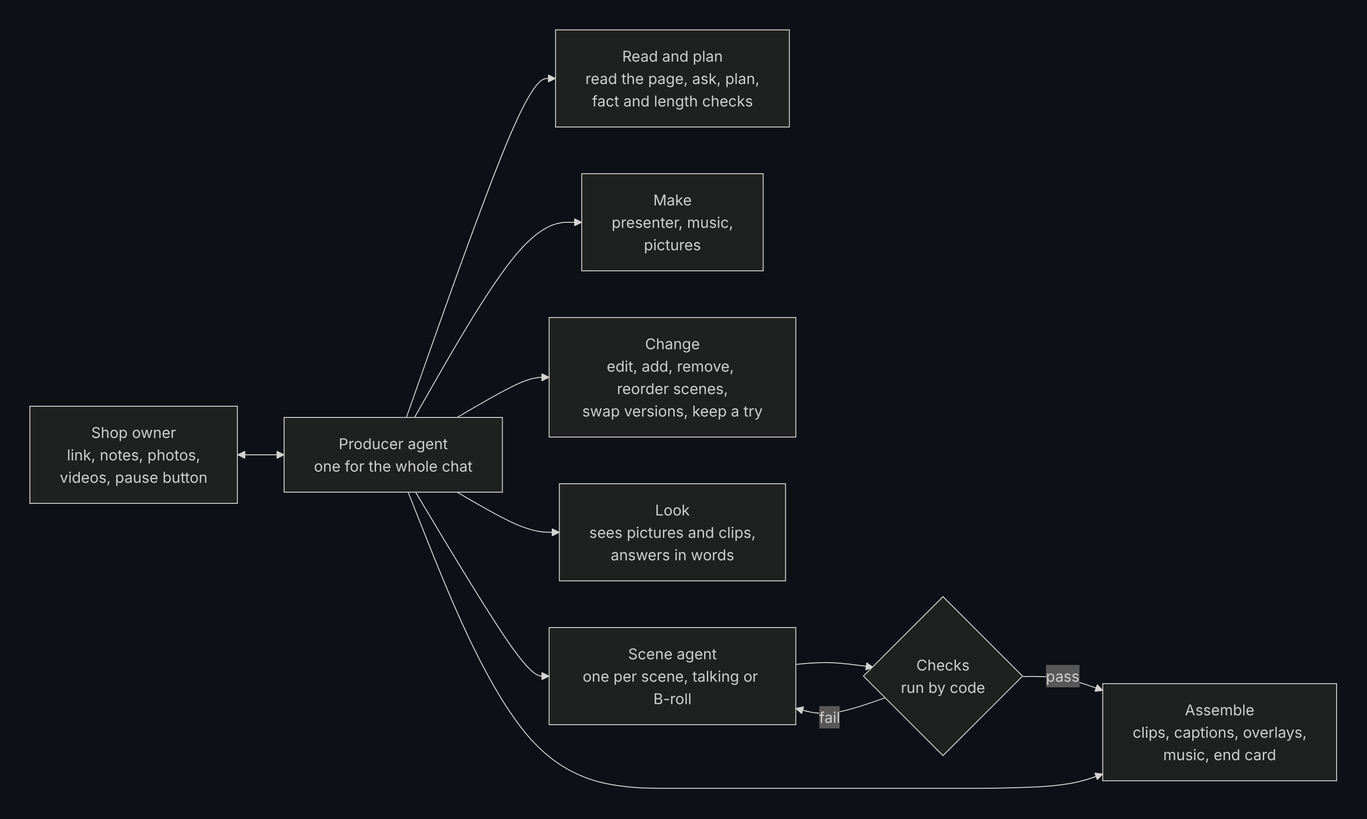
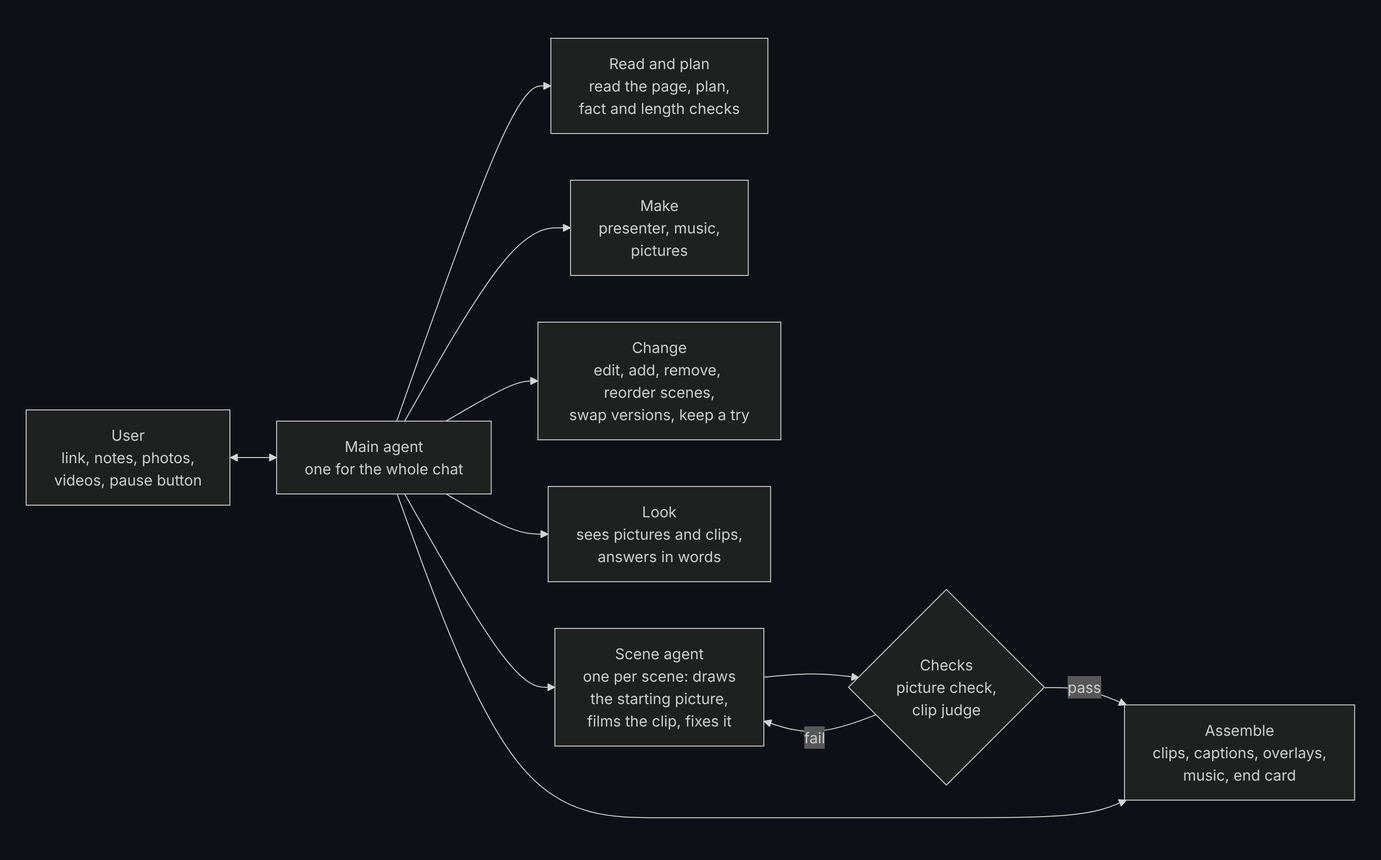
Rewrite the README short, with a why doc per main part (#726)
The README had grown long, and a reader new to the repo couldn't find the
hard parts or the reason behind each part. It now leads with the ads, the
three hard parts and how the architecture got here, and each main part of
the diagram links a short doc on why it is like that (docs/why/). The long
part-by-part list moved to docs/how-it-works.md. The README, the docs and
the diagram say "user" and "main agent" instead of "shop owner" and
"producer", and explain every in-house word.

Claude-Session: https://claude.ai/code/session_01CWcSCTNP1qYPPM5vgUbRac

diff --git a/README.md b/README.md
@@ -1,131 +1,100 @@
 # AdForge
 
-A chat agent that turns a product page into a short video ad. A presenter talks, B-roll shows the product being used, and the shop owner fixes any scene by writing a note.
+A chat agent that turns a product page into a short video ad. You send a product link and it makes the whole ad: a presenter talks about the product, and product shots show it being used. If a scene comes out wrong, you write a note in the chat and the agent fixes it.
 
-Watch it work: https://www.loom.com/share/23d2f242ad414ea4ba889d0310d5a38d
-
-See the ads and my grades: https://julian-win-stack.github.io/adforge-gallery/
+- **The ads, a month ago and now:** _link coming_
+- **Loom walkthrough:** _link coming_
+- **Try it:** the live link and login are in the message that came with this. They're not here because this repo is public.
 
 ![Three frames from a finished ad: the presenter with the can, the pour over ice, the first sip](docs/readme/ad.png)
 
-## How it works
+## Words I use
 
-One agent, the producer, runs the whole chat, from the first product link to the last note. It is a model with tools: it calls one, reads the answer, and decides what to do next. There is no pipeline in code. The rules that matter live in the tools, which refuse with a reason ([ADR 1](docs/adr/0001-agent-loop-with-safety-in-the-tools.md), [ADR 10](docs/adr/0010-one-agent-after-the-first-clip.md)). Each scene is then made by its own scene agent ([ADR 11](docs/adr/0011-one-agent-per-broll-scene.md), [ADR 12](docs/adr/0012-every-scene-made-with-h3.md)).
+- **Video model:** the AI that films each clip. It's Boreal-H3, Creatify's model (H3 for short).
+- **Clip:** one scene of the ad, filmed by the video model. An ad is 3 or 4 clips.
+- **Product shot:** a clip that shows the product being used, with the presenter's voice over it. The code calls it B-roll.
+- **Agent:** an AI model that calls tools in a loop and decides what to do next.
+- **Main agent:** the one agent the user chats with. The code calls it the producer.
+- **Scene agent:** one agent per scene. It draws the clip's starting picture, films the clip and fixes it.
+- **Starting and end pictures:** pictures drawn by a picture model before filming. The video model starts the clip from the starting picture, and ends exactly on the end picture.
+- **Clip judge:** an AI check that watches each clip after it's filmed.
+- **Round:** one batch of ads from real product pages after a set of changes, graded by me.
+
+## How it works
 
 <picture>
   <source media="(prefers-color-scheme: dark)" srcset="docs/readme/how-it-works-dark.png">
-  <img alt="The shop owner talks to the producer agent. The producer reads and plans, makes the presenter, music and pictures, changes scenes, looks at pictures and clips, and starts one scene agent per scene. Each scene's pictures and clips go through checks run by code: a fail goes back to the scene agent, a pass goes to assembly, which joins clips, captions, overlays, music and the end card." src="docs/readme/how-it-works-light.png">
+  <img alt="The user talks to the main agent. The main agent reads the page and plans, makes the presenter, music and pictures, changes scenes, looks at pictures and clips, and starts one scene agent per scene. Each scene agent draws the starting picture, films the clip and fixes it. Its pictures and clips go through checks, a picture check and the clip judge: a fail goes back to the scene agent, a pass goes to assembly, which joins clips, captions, overlays, music and the end card." src="docs/readme/how-it-works-light.png">
 </picture>
 
 <!-- The diagram is a picture so its labels show whole on every screen. Source: docs/readme/how-it-works.mmd; render it with Mermaid in light and dark and replace both PNGs. -->
 
-The producer's tools are in `backend/agents/producer.py` (`PRODUCER`); the scene agent's tools are in `backend/agents/scene_agent/__init__.py` (`TOOLS`). What the parts do:
+Why the main parts are like this:
 
-- **Reading the page.** Keeps only this product's text and photos. Page videos are watched whole on Gemini and cut into one-action moments for the ad's library. A page that can't be read can be pasted in the page panel. ([problem 2](#2-the-ad-stated-another-products-facts-so-i-rebuilt-the-page-reader))
-- **Planning.** The planner uses the main-looking size or pack and its price, the clear photos it has, invented parts and ordinary use when needed, then tells the owner its choices without a question (`backend/jobs/planning.py`). The plan is 3 or 4 scenes by default: the first talking, the middle ones B-roll, at least one B-roll scene per ad. Each talking scene has its own style (selfie, propped, talking while using it) and product state (in its box, out of it, in use, beside its box), so no two in a row look the same (`backend/jobs/plan_rules.py`, [ADR 13](docs/adr/0013-more-broll-whole-clips.md)). One movement per B-roll clip. ([problem 3](#3-several-actions-in-one-clip-break-the-physics-so-one-clip-is-one-movement))
-- **No questions, on purpose.** Decided and built on Nov 15, 2026 ([#662](https://github.com/Julian-Win-Stack/adforge/issues/662)): the agent doesn't ask the owner for photos, videos or permission. It picks the size that looks like the main one and goes with its price, draws a part no photo shows, films the product's ordinary use, tries a different shot by itself when a scene keeps failing, and says in one line what it chose. The owner can change anything afterwards with a note. Only a page that can't be read, or no product photo at all, still stops it. Why: AdForge isn't used by real shop owners yet, and a question stops a test run (one regression ad stopped after $18.98, waiting for a photo nobody would send). And as a user, I don't want to be asked those questions. I want it to figure things out by itself.
-- **Planning checks.** Every line and what each scene shows is checked against the page, the owner and the photos, then against how long the clip can last. A failing line is rewritten up to twice; if it still fails, the producer fixes it with its scene tools (`producer.py:RunPlanningChecks`). Every fact comes from the page or the owner ([ADR 2](docs/adr/0002-facts-come-only-from-the-page-and-the-user.md)).
-- **Scene agents.** The producer starts one agent per scene with an instruction (`start_scene_agent`). The agent picks the photos, draws a starting picture, films it with Boreal-H3 on Creatify, reads the checks and tries again. H3 speaks the checked line in the clip, in the presenter's voice words; no voice file is made. Only the producer talks to the owner.
-- **Checks, run by code.** Every starting and end picture is checked before filming (`scene_agent/picture_check.py`). The clip judge checks the filmed motion for things passing through bodies or solid objects; a yes fails the clip and tells its remake the fault and seconds (`jobs/clip_judge.py:judge_clip`). Every clip, talking and B-roll, gets the clip judge inside the agent's `film` tool (`scene_agent/film.py:Film.run`). The agent can't skip the checks or overrule a verdict. A pass puts the clip in the ad. ([problem 1](#1-an-ad-cant-be-made-right-in-one-shot-so-one-agent-owns-the-scene))
-- **Caps.** Per run: 6 starting pictures, 6 end pictures and 6 clips, with a few more after the scene changes (`scene_agent/lifecycle.py:MOST_TRIES`). On a give-up the producer tries one different idea, once per scene per owner message. After that the ad keeps the last clip, or tries the same line to camera if no clip exists. A talking scene that still makes no clip is removed so assembly can continue. Every try stays available on its card.
-- **Look.** The producer can't see. It asks one question about a picture, clip or version, and a sub-call answers in words. It decides nothing (`backend/agents/look.py`).
-- **Owner's notes.** The producer passes a note to the scene agent as its own instruction plus the owner's exact words, which code checks against the owner's messages (`backend/agents/owner_quotes.py`). Each note opens a new run, even while the agent is working. A photo sent with a note reaches that scene's agent (`backend/agents/note_photos.py`). On-screen words are changed with an overlay, for free, without filming again.
-- **Presenter.** Made up from the page and the owner's wishes, or drawn from a photo the owner sends in the chat (`producer.py:RemakePerson`). Changing her voice films every scene again, so the producer quotes the cost and waits for a yes.
-- **Versions.** Every try is kept. The producer or the owner can put any version back. A version whose voice or presenter changed since quotes its refilm cost first (`backend/agents/version_refilms.py`).
-- **Make a copy.** A chat with nothing being made can be copied whole, rows and history included, so notes can be tried on the copy while the original stays as it was. Files are shared, not duplicated (`backend/chat/session_copy.py`).
-- **Money and control.** No yes button before paid work, except a voice change or a refilm, which wait for the owner's yes to a quoted cost. The producer acts, then says what it cost. The pause button cancels steps not started yet; running ones finish, and a scene agent parks and later picks up where it stopped (`backend/agents/pause.py`).
-- **What the app can't do.** The producer is told the app's limits (`docs/limitations.md`) and the video model's hard limits (`docs/h3-limits.md`), so it says "can't, because" and offers what can be done before any paid call.
-- **Hard list.** Code refuses another product's page mid-ad, a page's how-to photo sent to the picture model, and the video API's limits (`backend/agents/hard_list.py`). A drawn part is checked and filmed without an owner-approval gate.
-- **Notices.** Every fallback or failure posts a notice written by code, not the producer. The owner sees only what they must act on; the rest goes to the developer record and Sentry (`backend/jobs/notices.py`). When an AI safety filter blocks a step the ad can't do without, the ad stops and says why.
-- **Shared limits.** Calls to the picture model, Firecrawl and transcription wait in one line across workers, under each account's limits (`backend/gateway/service_limits.py`).
-- **Assembly.** The clips play whole with their own sound, cut half a second after their last word (`backend/jobs/assembly.py`). Code draws captions from each clip's transcript, each scene's overlay and music under the voice, then the end card: product photo, name, one line from the page, price and website.
+| Part | Why it's like this |
+|---|---|
+| Main agent | [How the architecture got here](docs/why/architecture.md): every change, and the failure behind it |
+| Read and plan | [Reading the page](docs/why/read-the-page.md): an ad once said another product's facts |
+| Scene agent | [Working around the video model](docs/why/video-model.md): starting pictures, end pictures, one movement per clip |
+| Checks | [Getting the clip judge to agree with me](docs/why/clip-judge.md): what the judge should fail |
 
-**Agentic in code, not yet in practice.** The producer's instructions give a usual order for a first ad, and tools refuse steps out of order, so a first ad nearly always runs the same way. The freedom shows mostly on the owner's notes.
+Every part, with its code: [docs/how-it-works.md](docs/how-it-works.md).
 
-**How the checks look.** The clip judge's product check is told to describe the product in its reference photos, then in each frame, before its verdict. A failed product check or something passing through a body or solid object fails a new clip; on a run the owner asked for, a "was the change made?" question can fail it too (`backend/jobs/clip_judge.py`). Every clip is transcribed for timing; captions always show the scene's script line. The picture check answers 4 pass-or-fail questions for a starting picture and 2 for an end picture, naming every wrong part.
+## The hard parts
 
-## Hard problems
+### 1. Working around the video model
 
-### 1. An ad can't be made right in one shot, so one agent owns the scene.
+AI video still breaks physics a lot. That's normal right now, so most of my work went into finding what it does wrong and building around it.
 
-- **What broke.** Remaking a failed clip with the judge's notes in the prompt, up to three times, still failed. Remade clips did the banned thing again.
-- **Why.** The notes became ban lists, which video models don't follow, and only the prompt could change.
-- **What shipped.** First (round 6) a fixing agent that took over a scene after its clip failed. Since round 8, one scene agent owns each scene from the start: action, framing, starting picture, prompts, clip length and line. It looks at the frames and decides when to give up, up to 6 clips a run, and each owner note opens a new run. Every try is a version the owner can pick.
-- **Numbers.** On 10 round-5 cases, the fixing agent got 7 past the judge and I passed 6. With one agent per scene, B-roll clips I passed in the final ads went from 14 of 27 in round 7 to 26 of 27 in round 8.
-- **Known hole.** The agent can't overrule the clip judge. When the judge passes a bad clip, the bad clip ships (5 of the 10 round-5 cases).
+- **The biggest one:** a drawn and checked starting picture for every clip. In round 7 I sent the real page photos instead, and the video model copied everything in them: backgrounds, clothes, other people. 14 of 27 product shots worked. With checked starting pictures in round 8, 26 of 27.
+- **The rest:** end pictures, one movement per clip, contents never changing on screen, and the whole product in the starting picture: [docs/why/video-model.md](docs/why/video-model.md). All 21 quirks I found: [docs/h3-limits.md](docs/h3-limits.md).
+- **Ask me about:** why a drawn picture works better than the real product photos.
 
-### 2. The ad stated another product's facts, so I rebuilt the page reader.
+### 2. Getting the clip judge to agree with me
 
-- **What broke.** A sweatshirt ad described the fit of sweatpants sold in a bundle on the same page. The sentence really was on the page, so the fact check let it through.
-- **What shipped.** Firecrawl returns the text, a full-page screenshot with a number on every picture, and the shop's own product record.
-  - One model picks this product's photo numbers off the screenshot.
-  - A cheap model copies this product's passages word for word, and code drops any sentence not found on the page.
-  - Price comes from the owner's words or the main-looking option on the page, with that option's size or pack. No price on the page means no price in the ad.
-- **Numbers.** Other-product sentences: 0 of 102 leaked on 70 pages, with 87% of useful sentences kept. Other-product photos: 1 of 15 hard pages, against 9 of 15 with the dropped AI filter.
+- **Three paths:** strict, fail every flaw. Lenient, fail only what it can catch reliably. The middle, fail only what a viewer would notice.
+- The middle is what I really want, but judging videos is mostly about taste, and I still can't align the judge with me there.
+- **What I chose:** lenient in the app, and the user fixes the rest with a note. In my test, a note fixed 6 of 11 bad scenes. More: [docs/why/clip-judge.md](docs/why/clip-judge.md).
+- **Ask me about:** why I stopped chasing a perfect judge.
 
-### 3. Several actions in one clip break the physics, so one clip is one movement.
+### 3. Why an AI eval judge doesn't pay off for me
 
-- **What broke.** A toilet cleaner clip asked for squeeze, scrub, wait and flush, and the toilet flushed before the button was pressed.
-- **Why.** The video model can't make the change between actions, so it jumps from the first state to the last.
-- **What shipped.** One movement per B-roll clip, no exceptions, in the planner, the scene agent's video form and the fact-check rewrite. The voice carries the other steps. A claim with two end states gets two clips joined by a cut. A finishing step (rinse, flush, dry) never gets its own scene.
-- **Numbers.** Plans with 2 or more actions in a B-roll scene went from 18 of 54 to 0 of 61 (25 products). The same toilet, scrub only, I graded perfect.
+- Since I started building, I kept working on an AI judge that grades every ad after I change the app, so I'd only look at what it flags.
+- On the Nov 17 run it caught 3 of my 11 failed clips. Most of the ones it missed were hands or bodies breaking physics.
+- At 15 to 30 ads a run, my eyes plus my saved grades are faster and better. So the test answered no, for my case. More: [docs/why/evals.md](docs/why/evals.md).
+- **Ask me about:** when an eval judge would pay off.
 
-### 4. A one-moment action stretched over a five-second clip.
+## How the architecture got here
 
-- **What broke.** A clip is at least 5 seconds, so a half-second action (a tablet dropped into a bottle) leaves seconds empty, and the model fills them with invented events.
-- **What ships now.** Since every scene is one H3 clip, a clip lasts as long as its line: words ÷ 2.8 + 0.6 s, 5 to 15 s (`backend/jobs/pace.py:h3_clip_seconds`). The scene agent writes beats that fill the whole clip with its one action, and what happens after the last word; assembly cuts each clip half a second after its last word.
-- **Dropped along the way.** A planner rule that turned a short action into a talking scene, ban-list remake prompts, splitting the moment into two clips, and a plan critic that failed good plans.
+Every change came from a failure I graded. The full story: [docs/why/architecture.md](docs/why/architecture.md).
 
-### 5. Things the video model can't do yet.
-
-The planner avoids them.
-
-- **Flossing.** No clip yet without broken physics.
-- **Turning while sliding** (a hair tool twisting as it glides). Every try failed. No workaround.
-- **Changing from one state to another** (a strap going on). The planner films the before and the after as two clips with a cut. I graded that perfect.
-
-### 6. One picture slot, two needs: the starting pose and the owner's photos.
-
-- **What broke.** H3 takes one start picture or up to 9 example pictures, never both. A start picture shows one side of the product, and an owner's photo sent with a note had nowhere to go.
-- **Tried and dropped.** Example pictures for every clip, then page photos with no drawn start picture (round 7). The model redrew the product and copied backgrounds.
-- **What ships.** Every B-roll clip is filmed from a drawn starting picture that passed its check (`backend/agents/scene_agent/film.py:Film.run`, [ADR 11](docs/adr/0011-one-agent-per-broll-scene.md)). A talking scene that used up its picture tries films the closest one, and a picture the check couldn't answer (a safety filter, an outage) is filmed unchecked, with the owner asked to look. An owner's photo sent with a note must reach that scene's agent (`backend/agents/note_photos.py`). A part no photo shows gets its own drawn and checked picture, shown as information and filmed without waiting for approval; the owner can correct it afterwards with a note (`backend/jobs/owner_parts.py`).
+1. **Decider (Oct 16), removed now.** A second agent looked at the clip before fixing a user's note, because fixing from the words alone fixed the wrong thing.
+2. **Fixing agent (Oct 19), removed now.** An agent looked at a failed clip and changed the action or picture, because filming again with "don't do X" brought the same mistake back.
+3. **Today: one main agent, plus one agent per scene.** One agent that can act on anything the user asks (Oct 29), because rules in code had dead ends and refused what the user asked. And one agent per scene that sees its own pictures (Nov 3), because round 7 failed mostly from pictures picked by an AI that never saw them.
 
 ## Numbers
 
-A pass means I watched the finished ad and nothing broke: no wrong claim, no impossible motion, no invented product side, no missing scene. It does not mean the ad would sell. A round is one batch of ads from real product pages after a set of changes, graded by me.
+My last graded test, Nov 17: 30 ads, 15 on my fixed test products and 15 on products I never tested before.
 
-- **Latest rounds.** Rounds 14 and 15 (2026-11-10, 30 new products, the app as of that day): 27 made an ad and I passed 24 of them. 3 made no ad: two were blocked by an AI safety filter (planning checks, the presenter) and one hit an assembly bug. Since then, a request Azure's filter blocks is sent once to OpenAI's own API instead (#637); nothing changed since round 15 is graded yet. Round pages for 14 and 15 aren't written yet.
-- **The climb.** 0 of 5 in round 1, 7 of 15 in round 5, 11 of 15 in round 13. Every round, with every failure and its fix: [docs/test-rounds/README.md](docs/test-rounds/README.md).
-- **Working is not selling.** No ad passed my quality bar in rounds 11 and 12 (too slow, too much talking, a presenter who doesn't feel real). Later rounds didn't grade it.
-- **The clip judge still disagrees with me.** It is too strict on small details and misses some faults, and a scene agent can't overrule it.
-  - **How strict should a judge be? I see three paths.** Strict: fail every real flaw, even ones a viewer won't notice in a short, fast clip. Lenient: pass most clips and fail only a few clear, known faults, even if some visible flaws ship. The middle: fail only what a viewer would notice. The two ends can be built. The middle is the hard one: every shortcut I tried toward it failed (asking the AI "would a viewer notice", showing it fewer frames, a limit on how long a fault lasts, trimming instead of re-making).
-  - **What regression-3 showed (52 clips, 3 I failed).** My general eval judge caught 0 of my 3 fails. When a question pointed at the right thing, the AI caught all 3; the reversed hand needed a step-by-step form. Two narrow checks failed only 2 of the 49 clips I passed, both real flaws I chose to pass. I wrote those checks after seeing the fails, so the next round is the real test.
-  - **My plan (not built yet).** The app's clip judge sits at the lenient end, with narrow checks for faults we see often, because every false fail throws away a good take. The eval judge sits at the strict end: it flags every flaw and I overrule the small ones, so a person covers the middle.
-- **The fact check** caught 52 of 55 made-up claims planted in real scripts (`backend/evals/cases/fact_check.jsonl`). Real lines it failed aren't graded yet.
+- **Whole ads:** 21 of 30 worked. One bad clip fails the whole ad.
+- **Clips:** 105 of 116 clips in the final ads worked.
+- **Fixing with a note:** a note fixed 6 of 11 bad scenes ([test](docs/test-rounds/scene-tests.md#owner-note-eval-nov-17-ads)).
 
-How I test a change: evals in `backend/evals/`, and a regression run that replays 30 saved product pages and puts old and new ads side by side on a grading page (`backend/evals/regression/`).
+AI video still breaks sometimes, so the app is built around fixing it with a note.
 
-Current scene generation and checks: [ADR 0012](docs/adr/0012-every-scene-made-with-h3.md). What H3 can't do and our workarounds: [docs/h3-limits.md](docs/h3-limits.md). The [historical model-call map](docs/adr/0012-legacy/decision-map.md) records the retired paths.
+"Worked" means I watched it and nothing broke: no wrong claim, no impossible motion, no made-up product part. It doesn't mean the ad would sell. I didn't grade that. Every round, with every failure and its fix: [docs/test-rounds/README.md](docs/test-rounds/README.md).
 
-### Holes
+## What it still can't do
 
-- One grader, me, and I also built the app.
-- Small sets: 3 to 20 ads a round.
-- Rounds 14 and 15 were graded on whole ads only, not clip by clip.
+- **End pictures.** They mostly work, but sometimes they make faults. The video model always tries to end exactly on the end picture, so if the end picture is wrong, or doesn't match what the prompt asks, the clip goes wrong. And even when the agent asks for the right thing, the picture model sometimes draws the wrong thing. About 3 to 6 of 24 failed clips across 4 runs trace back to them. I can definitely fix this, but I chose not to right now, because most of the time they do more good than harm.
+- **Logos and labels.** Wrong letters are fine to me. But sometimes a logo comes and goes, in a different colour and place from the real one (a Stanley cup ad).
+- **Still shots.** We still haven't figured out how to do still shots properly. With nothing to move, the video model moves something by itself, like a drawer or a sprayer.
 
-## Limitations and what I'd test next
+## What I'd work on next
 
-- The clip judge still misses failures and fails good clips, and the scene agents depend on it.
-- The picture check misses a wrong background object (0 of 5).
-- B-roll often doesn't show the result the voice claims, such as "94% saw fewer wrinkles", and no ad has an emotional "after" moment yet.
-- Scenes are made by separate agents, so the same product or room can still drift between scenes.
-- A note sent while a clip is being filmed doesn't stop it: the clip finishes and is paid for, and the note changes the next try.
-- A worker restart fails a clip or check left running. Scene agents carry on from their checkpoints (`backend/agents/tasks.py:carry_on_after_the_worker_starts`).
-- AI safety filters block some products. A block on Azure is resent to OpenAI; a step that stays blocked and the ad can't do without stops the ad, which says why.
-- Some shops can't be read (TikTok Shop, Chewy, Target, Temu). The owner can paste the page text and photos instead.
-- What the app tells the owner it can't do: [docs/limitations.md](docs/limitations.md).
-
-Next to test: grade the first regression baseline (30 ads), so every later change is compared against it.
+- **Make the ads pull.** Make them sell, not just work. This needs domain knowledge.
+- **New products, new failures.** Test the agent on new products, find the new ways it fails and fix them. This is quite manual.
+- **How far the agents can go.** The app can do more than make an ad and fix it with notes. I didn't test the rest, because making ads and fixing them with notes is the scope right now ([#549](https://github.com/Julian-Win-Stack/adforge/issues/549)).
 
 ## How to run
 
@@ -142,7 +111,7 @@ Keys, by env var name (what each is for is in `.env.example`):
 
 - `OPENAI_API_KEY`: pictures, and every model call when Azure isn't set.
 - `AZUREE_OPENAI_KEY` and `AZUREE_OPENAI_BASE_URL` (optional): run the text and vision models on Azure.
-- `GEMINI_API_KEY`: watches page and owner videos. It isn't in `.env.example`; add it yourself.
+- `GEMINI_API_KEY`: watches page videos and videos the user sends. It isn't in `.env.example`; add it yourself.
 - `FIRECRAWL_API_KEY` (page reading), `ELEVENLABS_API_KEY` (transcripts), `FAL_KEY` (music, picture hosting), `CREATIFY_API_ID` and `CREATIFY_API_KEY` (H3 clips).
 - `LANGFUSE_PUBLIC_KEY` and `LANGFUSE_SECRET_KEY` (traces), `SENTRY_DSN` (optional, failure alerts).
 

diff --git a/docs/how-it-works.md b/docs/how-it-works.md
@@ -1,0 +1,28 @@
+# How it works, part by part
+
+The details behind the diagram in the [README](../README.md) (its [words I use](../README.md#words-i-use) explain the in-house names). The **producer** is the main agent: it talks with the user and runs the ad.
+
+The producer's tools are in `backend/agents/producer.py` (`PRODUCER`); the scene agent's tools are in `backend/agents/scene_agent/__init__.py` (`TOOLS`). What the parts do:
+
+- **Reading the page.** Keeps only this product's text and photos. Page videos are watched whole on Gemini and cut into one-action moments for the ad's library. A page that can't be read can be pasted in the page panel. ([why](why/read-the-page.md))
+- **Planning.** The planner uses the main-looking size or pack and its price, the clear photos it has, invented parts and ordinary use when needed, then tells the user its choices without a question (`backend/jobs/planning.py`). The plan is 3 or 4 scenes by default: the first talking, the middle ones B-roll, at least one B-roll scene per ad. Each talking scene has its own style (selfie, propped, talking while using it) and product state (in its box, out of it, in use, beside its box), so no two in a row look the same (`backend/jobs/plan_rules.py`, [ADR 13](adr/0013-more-broll-whole-clips.md)). One movement per B-roll clip. ([why](why/video-model.md#one-movement-per-clip))
+- **No questions, on purpose.** Decided and built on Nov 15, 2026 ([#662](https://github.com/Julian-Win-Stack/adforge/issues/662)): the agent doesn't ask the user for photos, videos or permission. It picks the size that looks like the main one and goes with its price, draws a part no photo shows, films the product's ordinary use, tries a different shot by itself when a scene keeps failing, and says in one line what it chose. The user can change anything afterwards with a note. Only a page that can't be read, or no product photo at all, still stops it. Why: AdForge isn't used by real users yet, and a question stops a test run (one regression ad stopped after $18.98, waiting for a photo nobody would send). And as a user, I don't want to be asked those questions. I want it to figure things out by itself.
+- **Planning checks.** Every line and what each scene shows is checked against the page, the user and the photos, then against how long the clip can last. A failing line is rewritten up to twice; if it still fails, the producer fixes it with its scene tools (`producer.py:RunPlanningChecks`). Every fact comes from the page or the user ([ADR 2](adr/0002-facts-come-only-from-the-page-and-the-user.md)).
+- **Scene agents.** The producer starts one agent per scene with an instruction (`start_scene_agent`). The agent picks the photos, draws a starting picture, films it with Boreal-H3 on Creatify, reads the checks and tries again. H3 speaks the checked line in the clip, in the presenter's voice words; no voice file is made. Only the producer talks to the user.
+- **Checks, run by code.** Every starting and end picture is checked before filming (`scene_agent/picture_check.py`). The clip judge checks whether the product's shape or colour changed or an extra piece appeared, and whether something passed through a body or a solid object; a fault fails the clip and tells its remake the fault and seconds (`jobs/clip_judge.py:judge_clip`). Every clip, talking and B-roll, gets the clip judge inside the agent's `film` tool (`scene_agent/film.py:Film.run`). The agent can't skip the checks or overrule a verdict. A pass puts the clip in the ad. ([why](why/clip-judge.md))
+- **Caps.** Per run: 6 starting pictures, 6 end pictures and 6 clips, with a few more after the scene changes (`scene_agent/lifecycle.py:MOST_TRIES`). On a give-up the producer tries one different idea, once per scene per user message. After that the ad keeps the last clip, or tries the same line to camera if no clip exists. A talking scene that still makes no clip is removed so assembly can continue. Every try stays available on its card.
+- **Look.** The producer can't see. It asks one question about a picture, clip or version, and a sub-call answers in words. It decides nothing (`backend/agents/look.py`).
+- **User's notes.** The producer passes a note to the scene agent as its own instruction plus the user's exact words, which code checks against the user's messages (`backend/agents/owner_quotes.py`). Each note opens a new run, even while the agent is working. A photo sent with a note reaches that scene's agent (`backend/agents/note_photos.py`). On-screen words are changed with an overlay, for free, without filming again.
+- **Presenter.** Made up from the page and the user's wishes, or drawn from a photo the user sends in the chat (`producer.py:RemakePerson`). Changing her voice films every scene again, so the producer quotes the cost and waits for a yes.
+- **Versions.** Every try is kept. The producer or the user can put any version back. A version whose voice or presenter changed since quotes its refilm cost first (`backend/agents/version_refilms.py`).
+- **Make a copy.** A chat with nothing being made can be copied whole, rows and history included, so notes can be tried on the copy while the original stays as it was. Files are shared, not duplicated (`backend/chat/session_copy.py`).
+- **Money and control.** No yes button before paid work, except a voice change or a refilm, which wait for the user's yes to a quoted cost. The producer acts, then says what it cost. The pause button cancels steps not started yet; running ones finish, and a scene agent parks and later picks up where it stopped (`backend/agents/pause.py`).
+- **What the app can't do.** The producer is told the app's limits (`docs/limitations.md`) and the video model's hard limits (`docs/h3-limits.md`), so it says "can't, because" and offers what can be done before any paid call.
+- **Hard list.** Code refuses another product's page mid-ad, a page's how-to photo sent to the picture model, and the video API's limits (`backend/agents/hard_list.py`). A drawn part is checked and filmed without waiting for the user's approval.
+- **Notices.** Every fallback or failure posts a notice written by code, not the producer. The user sees only what they must act on; the rest goes to the developer record and Sentry (`backend/jobs/notices.py`). When an AI safety filter blocks a step the ad can't do without, the ad stops and says why.
+- **Shared limits.** Calls to the picture model, Firecrawl and transcription wait in one line across workers, under each account's limits (`backend/gateway/service_limits.py`).
+- **Assembly.** The clips play whole with their own sound, cut half a second after their last word (`backend/jobs/assembly.py`). Code draws captions from each clip's transcript, each scene's overlay and music under the voice, then the end card: product photo, name, one line from the page, price and website.
+
+**Agentic in code, not yet in practice.** The producer's instructions give a usual order for a first ad, and tools refuse steps out of order, so a first ad nearly always runs the same way. The freedom shows mostly on the user's notes.
+
+**How the checks look.** The clip judge's product check is told to describe the product in its reference photos, then in each frame, before its verdict. A product fault (its shape or colour changed, or an extra piece appeared) or something passing through a body or a solid object fails a clip, for first clips and note remakes alike (`backend/jobs/clip_judge.py`). Every clip is transcribed for timing; captions always show the scene's script line. The picture check answers 4 pass-or-fail questions for a starting picture and 2 for an end picture, naming every wrong part.

diff --git a/docs/why/video-model.md b/docs/why/video-model.md
@@ -1,0 +1,35 @@
+# Working around the video model
+
+Boreal-H3, Creatify's video model, films every clip. It's good, but it breaks physics a lot. Breaking things is normal for AI video right now, so most of my work went into finding what it does wrong and building around it. These are the workarounds that matter most. All 21 quirks I found, with the code for each: [h3-limits.md](../h3-limits.md).
+
+## A drawn starting picture for every clip
+
+- **What it is.** Before filming, the scene agent draws the clip's first frame: the presenter, the room and the product. A check looks at it, and only then the video model films from it.
+- **Why.** If we get the starting picture right and give the right instructions, it's hard for the video model to break the physics. The starting picture sets the direction and aligns the video model with what we want. The risk is, if the starting picture is wrong, the whole clip goes wrong. So every one gets checked before any money is spent on filming.
+- **Proof.** In round 7 I tried sending the real photos from the product page instead, with no drawn picture. The video model copied everything in them: backgrounds, clothes, other people. Only 4 of 15 ads worked, and 14 of 27 product shots. With a drawn and checked starting picture (round 8), 26 of 27 product shots worked.
+
+## End pictures
+
+- **What it is.** The scene agent can also draw the clip's last frame, like the finished makeup or the clean spot. The video model always ends exactly on it.
+- **Why.** The video model doesn't know how a product looks after it's used, so it guesses. Foundation came out wrong on her face, and a cleansing gel turned into white lather. If we show it the end, it doesn't have to guess.
+- **Proof.** On scenes that had failed, 14 of 20 tries worked with an end picture, then 8 of 11.
+- **Cost.** A wrong end picture pushes the clip wrong. It's the first thing in [what it still can't do](../../README.md#what-it-still-cant-do).
+
+## One movement per clip
+
+- **What broke.** A toilet cleaner clip asked for squeeze, scrub, wait and flush. The toilet flushed before the button was pressed.
+- **Why.** The video model can't make the change between actions, so it jumps from the first state to the last.
+- **What I did.** One product movement per clip, and the voice carries the other steps. Something with two states, like before and after, gets two clips with a cut.
+- **Proof.** Plans with 2 or more actions in one clip went from 18 of 54 to 0 of 61.
+
+## Contents never change on screen
+
+- **What broke.** The video model makes up how gel, foam or serum looks and changes. A serum grew into a thicker pink patch instead of thinning out.
+- **What I did.** Contents are shown coming out, or already finished, but never changing on screen. The before and the after get their own clips with a cut.
+- **Proof.** Putting a product on skin never passed: Glow Recipe (round 6), Krave (rounds 8 to 10), Bondi (rounds 12 and 13). The finished-result way passed my test on Nov 10.
+
+## The whole product in the starting picture
+
+- **What broke.** The video model only gets the starting picture. Any part it can't see, cut off by the frame or hidden under a hand, it makes up when that part comes into view.
+- **What I did.** A product small enough is shown whole, from one side, and the clip never shows a part that was hidden.
+- **Proof.** Of the hidden-part fails I graded, 3 of 14 were parts cut off by the frame and 10 were hidden parts showing up later. In a picture test on 17 products, I passed 63 of 65 starting pictures. This one is new (Nov 17), so it's not proven on full ads yet.

diff --git a/docs/why/architecture.md b/docs/why/architecture.md
@@ -1,0 +1,38 @@
+# How the architecture got here
+
+Every change here fixed a failure I graded. I didn't change things because it felt better. Two of the steps are removed now, but you need them to see why today's setup looks like this.
+
+- **Main agent:** the one agent the user chats with. The code calls it the producer.
+- **Scene agent:** one agent per scene of the ad. It makes and fixes that scene.
+
+## 1. Decider (Oct 16). Removed now.
+
+- **Before:** when the user asked for a change, the main agent fixed it from the words alone.
+- **Went wrong:** "scrub left to right" got done, but the brush still scrubbed the toilet seat ([note test](../test-rounds/scene-tests.md#fix-from-a-note-test)).
+- **Why:** fixing the right thing needs eyes on the clip, but pictures would flood the main agent's memory.
+- **Helps:** a second agent looks at the clip first, then proposes the fix.
+
+## 2. Fixing agent (Oct 19). Removed now.
+
+- **Before:** the clip judge (an AI that watches each clip) failed bad clips, and the app filmed them again with "don't do X" added.
+- **Went wrong:** the same mistake came back, on 4 scenes in round 5. It even kept a clip I failed over one I passed ([round 5](../test-rounds/round-05.md)).
+- **Why:** the video model ignores "don't". The real fix was often a different action or picture, which needs something that sees the clip.
+- **Helps:** an agent looks at the failed clip and changes the action or picture. It fixed 7 of 18 failed scenes in round 6 ([round 6](../test-rounds/round-06.md)).
+
+## 3. Today: one main agent, plus one agent per scene
+
+Two changes, for two different failures.
+
+### One main agent for the whole chat (Oct 29)
+
+- **Before:** after the first clip, the main agent was locked out: the decider picked a fix plan and code ran it. The app had about 180 checks in code that could stop a step.
+- **Went wrong:** most round 6 ads that died, died at one of about 15 checks with no way out, like a step stuck "running" after a crash, blocking its scene forever. And the user couldn't steer in words: when I asked to show the dog's paws being cleaned instead of the presenter, it refused twice ([round 6](../test-rounds/round-06.md)).
+- **Why:** rules in code can't cover everything a user asks. An agent with general tools can.
+- **Helps:** one agent decides and acts on anything, so the decider went. A rule is added only after a failure I graded. A side call looks at pictures for it and answers in words, so its memory stays small ([ADR 10](../adr/0010-one-agent-after-the-first-clip.md)).
+
+### One agent per scene (Nov 3)
+
+- **Before:** an AI that never saw the pictures picked each clip's photos and wrote its first prompt.
+- **Went wrong:** round 7, only 4 of 15 ads worked, mostly from bad pictures sent to the video model ([round 7](../test-rounds/round-07.md)).
+- **Why:** whoever picks a clip's pictures has to see them. One agent seeing every scene's pictures would flood its memory, so the seeing is split by scene.
+- **Helps:** each scene's agent picks photos, draws a checked starting picture, films and fixes. It took over the fixing agent's job. Round 8: 26 of 27 product shots worked ([round 8](../test-rounds/round-08.md), [ADR 11](../adr/0011-one-agent-per-broll-scene.md)).

diff --git a/docs/why/clip-judge.md b/docs/why/clip-judge.md
@@ -1,0 +1,20 @@
+# Getting the clip judge to agree with me
+
+After each clip is filmed, an AI judge watches it. If it fails the clip, the scene agent fixes it. The hard part was deciding what the judge should fail.
+
+## Three paths
+
+- **Strict:** fail every real flaw, even the ones a viewer won't notice in a short, fast clip.
+- **Lenient:** pass most clips, and fail only the few clear faults it can catch reliably, even if some flaws ship.
+- **The middle:** fail only what a viewer would notice. This is what I really want, but it's mostly about taste.
+
+The two ends can be built. The middle is the hard one, and right now I still can't align the judge with me there. Every shortcut I tried toward it failed: asking the AI "would a viewer notice", showing it fewer frames, a limit on how long a fault lasts, and trimming the clip instead of filming it again.
+
+## What I chose
+
+- **In the app, lenient.** The judge only checks what it can catch reliably: did the product's shape or colour change, did an extra piece appear, and did something pass through a body or a solid object. It's not too strict, so it doesn't over fail. It might wrongly fail sometimes, but mostly it doesn't.
+- **The rest, the user fixes with a note.** AI video still breaks sometimes, so the app is built around fixing a scene by writing a note in the chat. In my test, a note fixed 6 of 11 bad scenes.
+- **What it costs.** On Nov 17, 11 of 116 clips in the final ads had a fault the judge didn't catch. 7 of them were hands or bodies breaking physics.
+- **For testing my own changes, strict.** Why that didn't pay off either: [evals](evals.md).
+
+Code: `backend/jobs/clip_judge.py`.

diff --git a/docs/why/evals.md b/docs/why/evals.md
@@ -1,0 +1,12 @@
+# Why an AI eval judge doesn't pay off for me
+
+The idea was an AI judge that grades every ad after I change the app, so I only look at what it flags. I kept working on it on the side since I started building. I went with a strict judge: it flags every flaw, and I overrule the small ones. The test answered no, for my case. Why:
+
+1. **It misses the failures that matter.** On the Nov 17 run it caught 3 of my 11 failed clips. 6 of the 8 it missed were hands or bodies breaking physics, and it already had questions for exactly that. Even when told where to look, it describes the hand and still calls it natural.
+2. **A judge I can't trust saves me no time.** At 3 of 11, I still have to watch every clip. And most of its flags were on clips I passed, so I spend time overruling it too.
+3. **My volume is too small to need it.** A run is 15 to 30 ads, about 15 minutes of watching. My eyes are faster and better. A judge pays off when there are more ads than people can watch.
+4. **Too few failures to teach it.** Each run gives only 5 to 10 failed clips, and new runs bring faults it wasn't tuned on. Questions written from old failures caught them on those ads, then missed most on fresh ones.
+
+So right now, my eyes plus my saved grades are the eval. The place an AI check matters is inside the app, when nobody is watching: [the clip judge](clip-judge.md).
+
+How I test a change: a regression run replays 30 saved product pages and puts the old and new ads side by side, and I grade them (`backend/evals/regression/`).

diff --git a/docs/why/read-the-page.md b/docs/why/read-the-page.md
@@ -1,0 +1,10 @@
+# Reading the page
+
+- **What broke.** A sweatshirt ad described the fit of sweatpants sold in a bundle on the same page. The sentence really was on the page, so the fact check let it through.
+- **Why it matters.** Every fact in an ad comes only from the page or the user ([ADR 2](../adr/0002-facts-come-only-from-the-page-and-the-user.md)). So if the page reader picks up another product's text, the ad says wrong things about this product.
+- **What I did.** Firecrawl returns the text, a full-page screenshot with a number on every picture, and the shop's own product record.
+  - One model picks this product's photo numbers off the screenshot.
+  - A cheap model copies this product's passages word for word, and code drops any sentence not found on the page.
+  - The price comes from the user's words, or the main-looking option on the page with its size or pack. No price on the page means no price in the ad.
+- **Proof.** Other-product sentences: 0 of 102 leaked, on 70 pages, with 87% of useful sentences kept. Other-product photos: 1 of 15 hard pages, against 9 of 15 with the AI filter I dropped.
+- **Still can't read:** TikTok Shop, Chewy, Target, Temu. The user can paste the page text and photos instead.

diff --git a/AGENTS.md b/AGENTS.md
@@ -1,4 +1,4 @@
-AdForge: a chat agent that turns a product page into a short video ad. Django + Celery backend (`backend/`), React + Vite frontend (`frontend/`). How it works: `README.md`; domain words: `CONTEXT.md`; decisions: `docs/adr/`.
+AdForge: a chat agent that turns a product page into a short video ad. Django + Celery backend (`backend/`), React + Vite frontend (`frontend/`). How it works: `README.md`, part by part with code paths in `docs/how-it-works.md`; domain words: `CONTEXT.md`; decisions: `docs/adr/`.
 
 ## Working with Julian (the owner)
 
